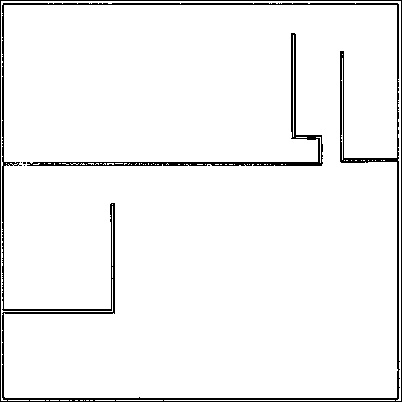
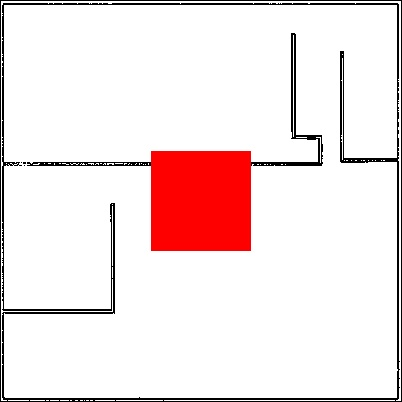
polygonTest.js && rcl-getMap.js

Changed region(s): [[0.3582, 0.3582, 0.6269, 0.6269]]

diff --git a/polygonTest.js b/polygonTest.js
@@ -1,15 +1,48 @@
 const { createCanvas, loadImage } = require('canvas');
 const fs = require('fs');
+const sizeOf = require('image-size');
 
 const filename = 'images/map.jpg';
 const outputFilename = 'images/polygon.jpg';
 
 // Define the coordinates of the polygon vertices
+// const polygon = [
+//   [269.375, -521.8671875],
+//   [672.375, -517.8671875],
+//   [675.375, -190.8671875],
+//   [209.375, -177.8671875],
+// ];
+
+// Read the file into a buffer
+const buffer = fs.readFileSync(filename);
+
+// Get the dimensions of the image from the buffer
+const { width, height } = sizeOf(buffer);
+// console.log({ width, height });
+
+console.log(`${width} ${height}`);
+
+const centerX = width / 2; // x-coordinate of the center of the image
+const centerY = height / 2; // y-coordinate of the center of the image
+
+// const polygon = [
+//   [10, 10],
+//   [100, 10],
+//   [100, 100],
+//   [10, 100],
+// ];
+
+// const polygon = [
+//   [10 - centerX, 10 - centerY], // top-left vertex
+//   [100 - centerX, 10 - centerY], // top-right vertex
+//   [100 - centerX, 100 - centerY], // bottom-right vertex
+//   [10 - centerX, 100 - centerY], // bottom-left vertex
+// ];
 const polygon = [
-  [269.375, -521.8671875],
-  [672.375, -517.8671875],
-  [675.375, -190.8671875],
-  [209.375, -177.8671875],
+  [151, 151], // top-left vertex
+  [251, 151], // top-right vertex
+  [251, 251], // bottom-right vertex
+  [151, 251], // bottom-left vertex
 ];
 
 // Load the image

diff --git a/rclnodejs/getmap.js b/rclnodejs/getmap.js
@@ -1,17 +1,21 @@
 const rclnodejs = require('rclnodejs');
-const msg = rclnodejs.require('nav_msgs/msg/OccupancyGrid').msg;
+// const msg = rclnodejs.require('nav_msgs/msg/OccupancyGrid').msg;
 
 async function run() {
   try {
     await rclnodejs.init();
     const node = rclnodejs.createNode('subscriber_node');
     const sub = node.createSubscription(
-      'nav_msgs/msg/OccupancyGrid',
-      '/map',
+      'std_msgs/msg/String',
+      '/topic',
       (msg) => {
         console.log(msg);
       }
     );
+    setTimeout(() => {
+      console.log('Unsubscribing from the topic');
+      node.destroySubscription(sub);
+    }, 5000);
     rclnodejs.spin(node);
   } catch (error) {
     console.error(`Error: ${error}`);
